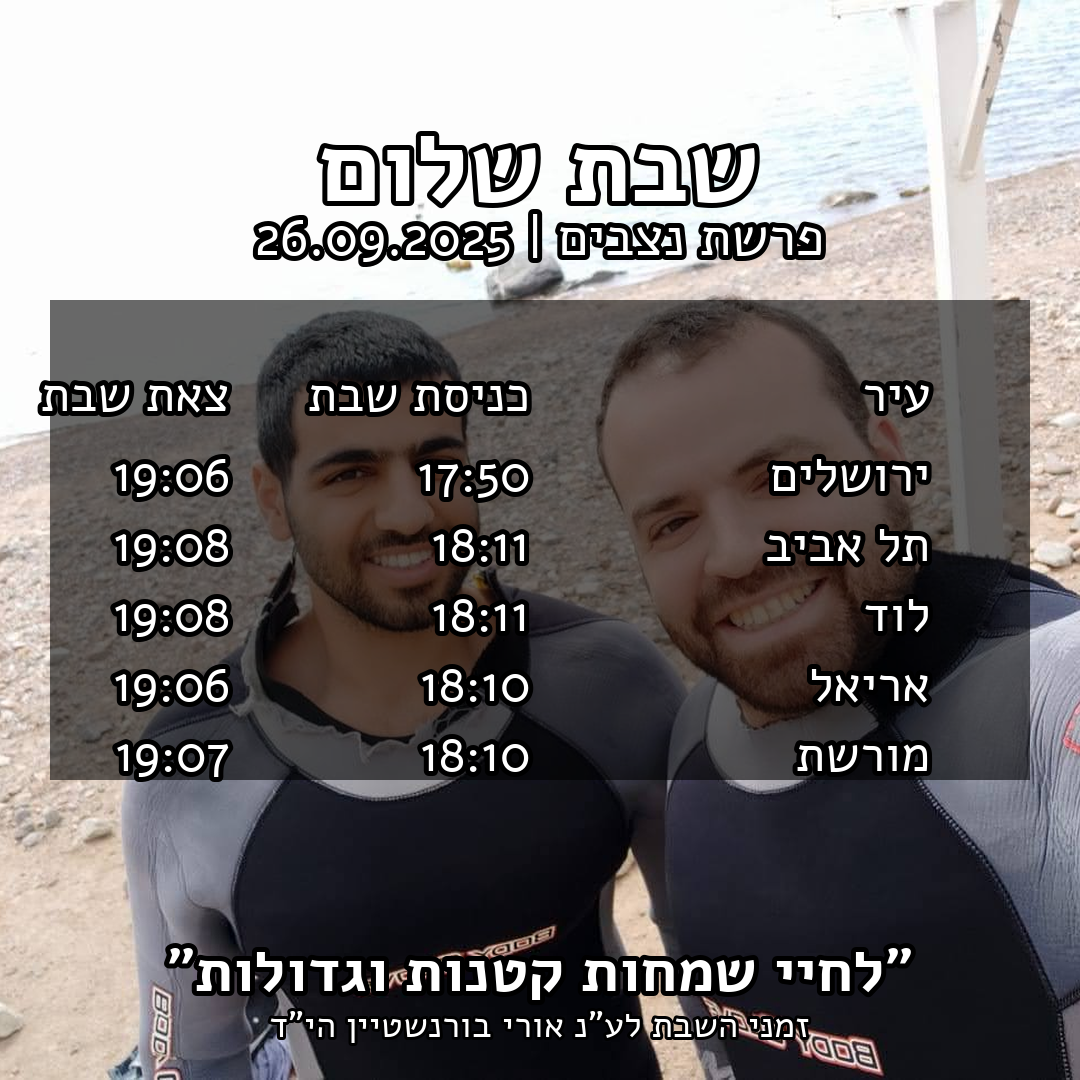
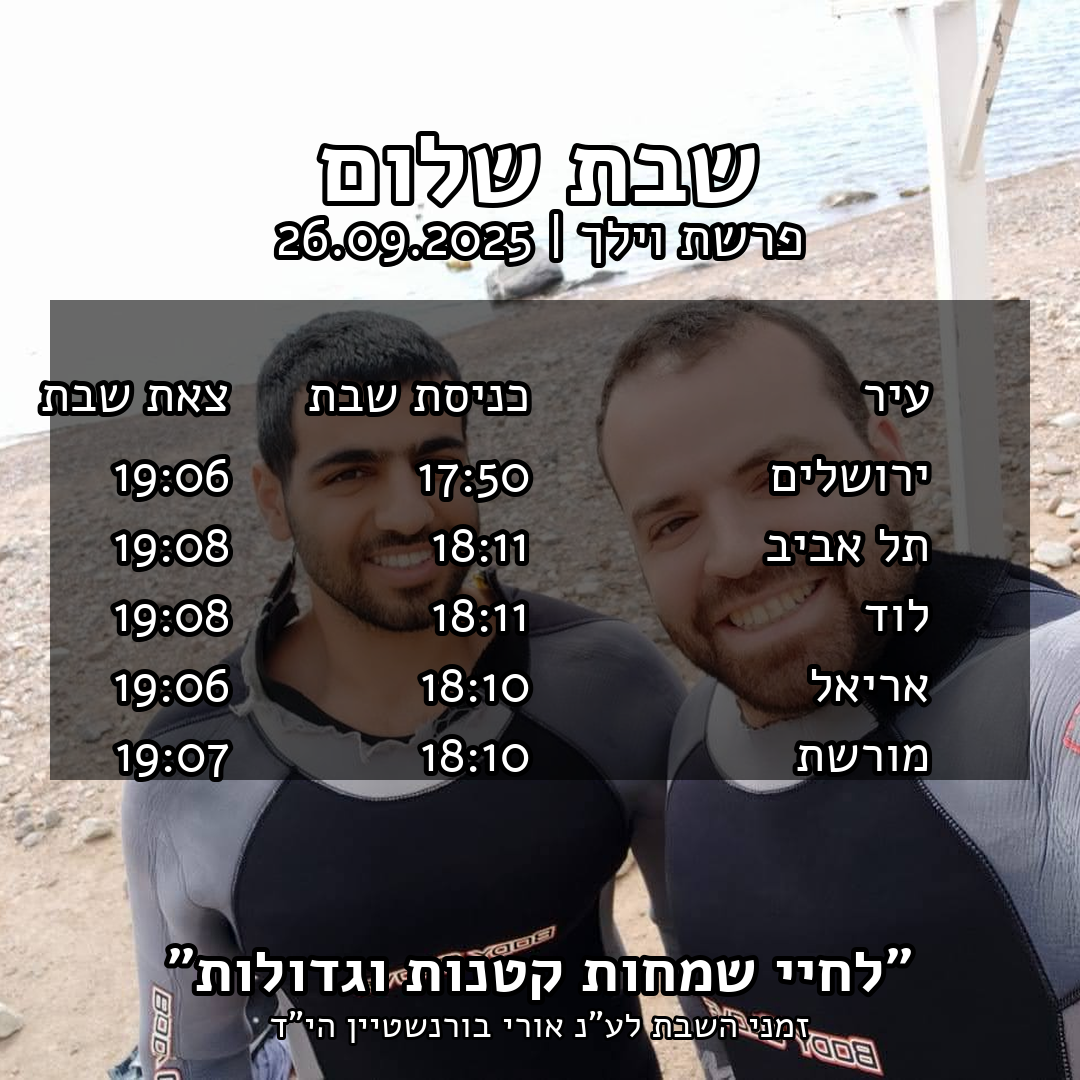
תיקון תמונת חול המועד סוכות ושיפור תרגומי חגים
תיקונים עיקריים:
- פרשת וזאת הברכה בחול המועד סוכות, הושענא רבה ושמחת תורה
- תרגומים מלאים לכל ימי חול המועד סוכות
- הוספת 'הושענא רבה' לתרגומים
- תיקון לוגיקת קריאת התורה בחגים

תוצאות:
- 10 אוקטובר: חול המועד סוכות + פרשת וזאת הברכה (במקום Ha'azinu)
- 13 אוקטובר: הושענא רבה + פרשת וזאת הברכה
- 14 אוקטובר: שמחת תורה + פרשת וזאת הברכה
- תרגומים עבריים: 'חול המועד סוכות', 'הושענא רבה'
- ראש השנה מופיע כשמתחילים מהתאריך הנכון

Changed region(s): [[0.2139, 0.1833, 0.7639, 0.2444]]

diff --git a/make_shabbat_posts.py b/make_shabbat_posts.py
@@ -141,6 +141,18 @@ def jewcal_times_for_date(lat: float, lon: float, target_date: date, candle_offs
 def get_parsha_from_hebcal(target_date: date) -> str:
     """Get parsha information from Hebcal API for the week containing target_date."""
 
+    # Special cases for Torah reading during holidays
+    from jewcal import JewCal
+    jewcal = JewCal(gregorian_date=target_date, diaspora=False)
+    if jewcal.has_events() and jewcal.events.yomtov:
+        event_name = jewcal.events.yomtov
+        # Simchat Torah, Hoshana Rabba, and Chol HaMoed Sukkot read "Vezot Haberakhah"
+        if ("Simchat Tora" in event_name or
+            "Shmini Atzeret / Simchat Tora" in event_name or
+            "Hoshana Rabba" in event_name or
+            "Chol HaMoed" in event_name):
+            return "פרשת וזאת הברכה"
+
     # Find the Saturday of the week containing target_date
     days_until_saturday = (5 - target_date.weekday()) % 7  # Saturday is weekday 5
     if days_until_saturday == 0 and target_date.weekday() == 5:  # If target_date is Saturday
@@ -367,6 +379,12 @@ def compose_poster(bg_img: Image.Image, week_info: dict, all_cities_rows: list, 
             "Chol HaMoed 3": "חול המועד",
             "Chol HaMoed 4": "חול המועד",
             "Chol HaMoed 5": "חול המועד",
+            "Chol HaMoed 1 (Sukkot 2)": "חול המועד סוכות",
+            "Chol HaMoed 2 (Sukkot 3)": "חול המועד סוכות",
+            "Chol HaMoed 3 (Sukkot 4)": "חול המועד סוכות",
+            "Chol HaMoed 4 (Sukkot 5)": "חול המועד סוכות",
+            "Chol HaMoed 5 (Sukkot 6)": "חול המועד סוכות",
+            "Hoshana Rabba (Sukkot 7)": "הושענא רבה",
         }
         hebrew_event = yomtov_translations.get(event_name, event_name)
         if parsha_txt:
